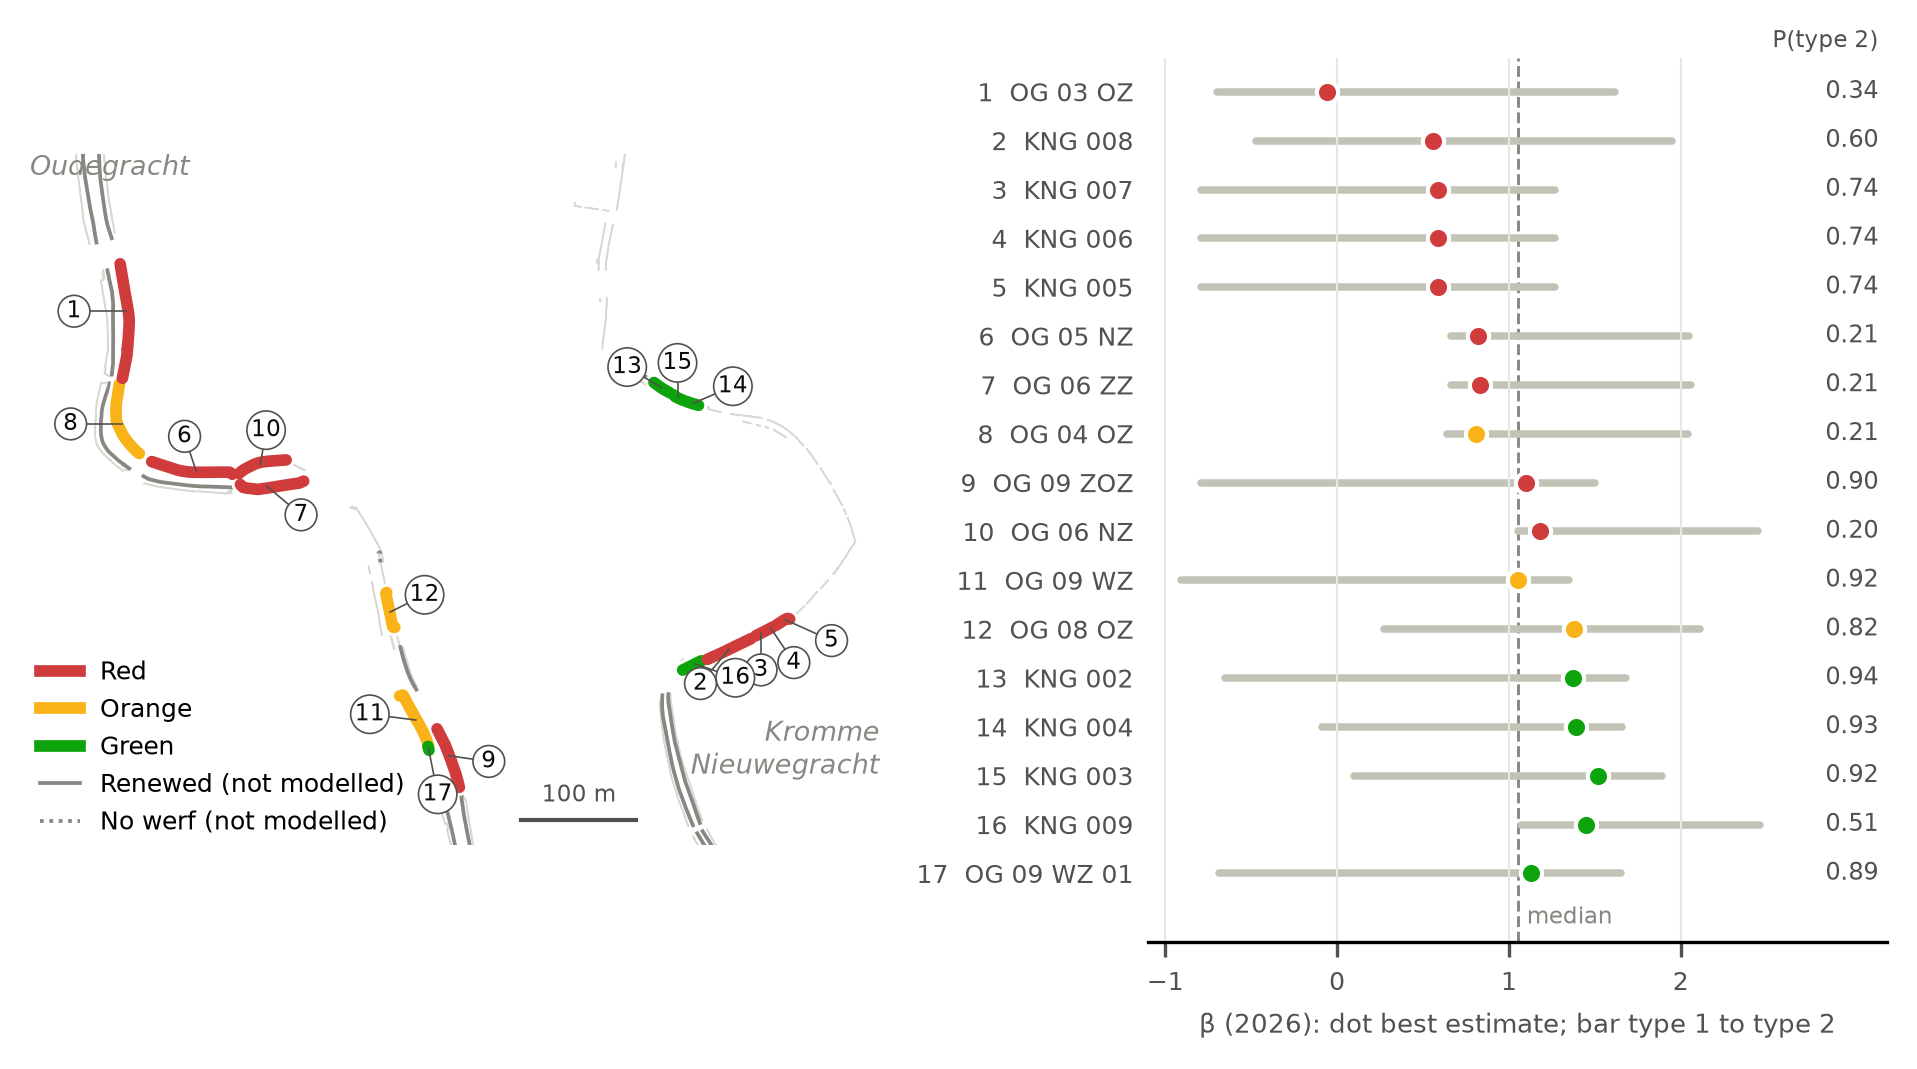
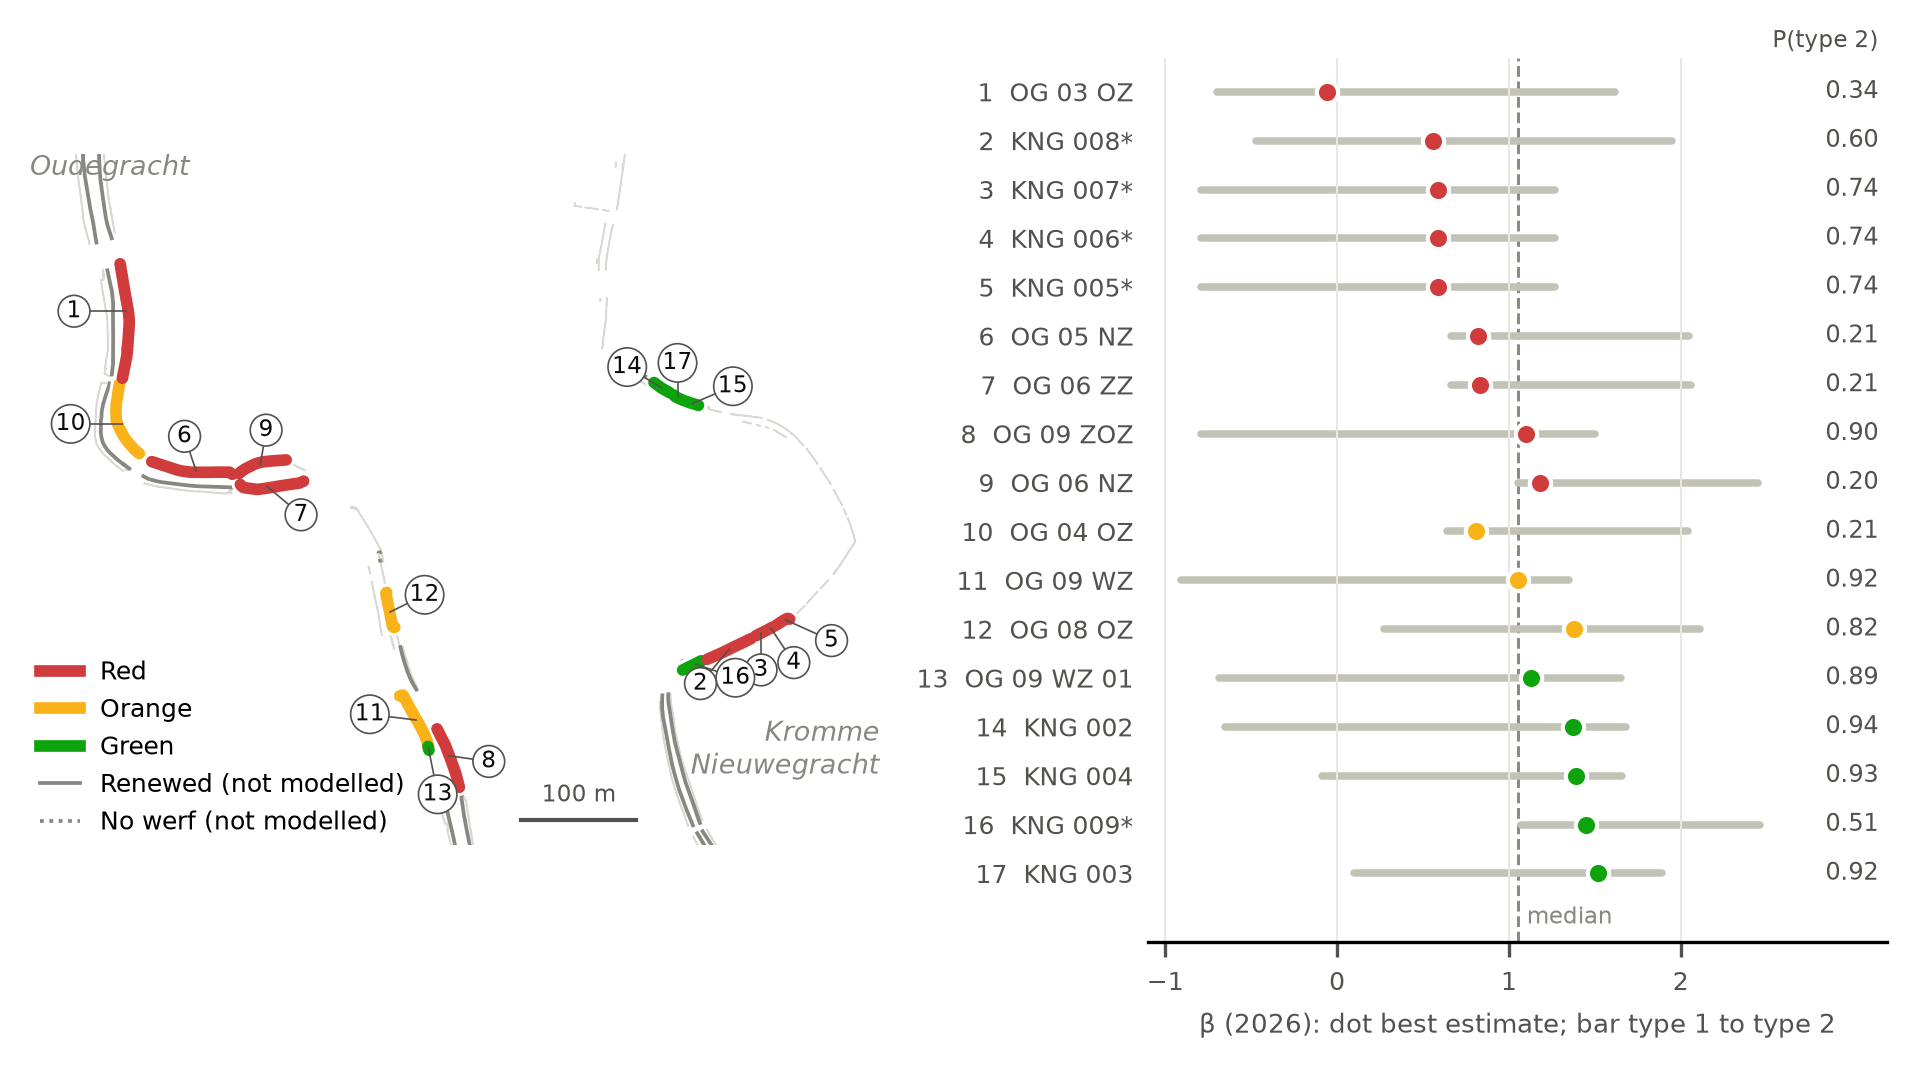
Scenario runs for the review fixes
fault_tree.py: model event x0.3, x3 and without time scaling;
plot_results_map.py: order by class then Pf, flag walls without a dive
note, class factor 1.25 and 2.0; SensitivityDependence.py: groundwater
up to the werf; regression_production_rate.py: E[N] without time scaling.

diff --git a/scripts/plot_results_map.py b/scripts/plot_results_map.py
@@ -10,7 +10,11 @@ median of the 17 modelled walls, not from the NEN 8700 levels:
 
 The consequence class comes from build_walmuur_consequence.py. Both are scored
 1 (low) to 3 (high); their sum gives the risk class, as in a 3 x 3 risk matrix:
-5 or 6 red, 4 orange, 2 or 3 green.
+5 or 6 red, 4 orange, 2 or 3 green. The list is ordered by risk class and,
+within a class, by Pf. A wall whose prior chance of type 2 is 0.5 (no dive note
+on the wall type) is flagged: its class rests on missing data rather than on
+evidence of a weak wall. The script also prints the classes for P_FACTOR 1.25
+and 2.0.
 
 Figure: left, the walmuren of the Wervengebied, the 17 modelled walls coloured
 by risk class; right, beta per wall (best estimate) with the range from type 1
@@ -49,7 +53,7 @@ def short(name):
             .replace(" (thv nr 018)", ""))
 
 
-def risk_table():
+def risk_table(p_factor=P_FACTOR):
     r = pd.read_csv(RESULTS)
     r = r[r["year"].eq(2026)]
     best = r[r["type"] == "unknown"].set_index("Nummer")
@@ -61,12 +65,16 @@ def risk_table():
                       "p_type2": best["p_type2"], "beta_type1": t1, "beta_type2": t2})
     d = d.join(c[["consequence_score", "consequence_class"]])
     med = d["pf"].median()
-    d["p_class"] = np.where(d["pf"] > P_FACTOR * med, "high",
-                            np.where(d["pf"] < med / P_FACTOR, "low", "medium"))
+    d["p_class"] = np.where(d["pf"] > p_factor * med, "high",
+                            np.where(d["pf"] < med / p_factor, "low", "medium"))
     score = d["p_class"].map(CLASS_SCORE) + d["consequence_class"].map(CLASS_SCORE)
     d["risk_class"] = np.where(score >= 5, "red", np.where(score == 4, "orange", "green"))
-    d["risk_rank"] = (d["pf"] * d["consequence_score"]).rank(ascending=False).astype(int)
-    return d.sort_values("risk_rank"), med
+    d["data_flag"] = best["p_type2_prior"].round(2).eq(0.5)
+    order = {"red": 0, "orange": 1, "green": 2}
+    d = d.assign(_c=d["risk_class"].map(order)).sort_values(["_c", "pf"], ascending=[True, False],
+                                                             kind="stable").drop(columns="_c")
+    d["risk_rank"] = np.arange(1, len(d) + 1)
+    return d, med
 
 
 def xy(coords):
@@ -81,6 +89,11 @@ def main() -> None:
     print(d[["Naam", "length_m", "beta", "p_class", "consequence_class", "risk_class", "risk_rank"]]
           .to_string())
     print(d.groupby("risk_class")["length_m"].agg(["count", "sum"]))
+    print("flagged (prior P(type 2) 0.5):", ", ".join(short(n) for n in d.loc[d["data_flag"], "Naam"]))
+    for f in (1.25, 2.0):
+        alt = risk_table(f)[0].groupby("risk_class")["length_m"].agg(["count", "sum"])
+        print(f"P_FACTOR {f}: " + ", ".join(f"{k} {int(v['count'])} ({v['sum']:.0f} m)"
+                                            for k, v in alt.iterrows()))
 
     features = json.loads((ROOT / "data" / "raw" / "Output areaal GU TU Delft 26-08.json")
                           .read_text())["features"]
@@ -104,15 +117,17 @@ def main() -> None:
                 ax.plot(*xy(c), color=MUTED, lw=0.9, ls=(0, (1, 1.5)) if reason.get(n) == "no werf" else "-",
                         zorder=2)
     # Each modelled wall carries its risk rank; offsets in metres, away from the canal.
-    offsets = {1: (-45, 0), 2: (-25, -30), 3: (0, -32), 4: (20, -30), 5: (40, -18), 6: (-10, 30),
-               7: (30, -25), 8: (-45, 0), 9: (35, -5), 10: (5, 30), 11: (-40, 5), 12: (30, 15),
-               13: (-30, 18), 14: (35, 15), 15: (0, 30), 16: (35, -12), 17: (8, -40)}
+    offsets = {"OG 03 OZ": (-45, 0), "KNG 008": (-25, -30), "KNG 007": (0, -32), "KNG 006": (20, -30),
+               "KNG 005": (40, -18), "OG 05 NZ": (-10, 30), "OG 06 ZZ": (30, -25), "OG 04 OZ": (-45, 0),
+               "OG 09 ZOZ": (35, -5), "OG 06 NZ": (5, 30), "OG 09 WZ": (-40, 5), "OG 08 OZ": (30, 15),
+               "KNG 002": (-30, 18), "KNG 004": (35, 15), "KNG 003": (0, 30), "KNG 009": (35, -12),
+               "OG 09 WZ 01": (8, -40)}
     deg_x = 1 / (111_320 * np.cos(np.radians(LAT0))) * np.cos(np.radians(LAT0))
     deg_y = 1 / 111_320
     for n, row in d.iterrows():
         x, y = xy(lines(geom[n])[0])
         x0, y0 = x.mean(), y.mean()
-        dx, dy = offsets[row["risk_rank"]]
+        dx, dy = offsets[short(row["Naam"])]
         tx, ty = x0 + dx * deg_x, y0 + dy * deg_y
         ax.plot([x0, tx], [y0, ty], color=INK_2, lw=0.4, zorder=5)
         ax.text(tx, ty, str(row["risk_rank"]), ha="center", va="center", fontsize=5.6, color=INK,
@@ -143,7 +158,8 @@ def main() -> None:
         bx.scatter(row["beta"], y, s=26, color=COLOURS[row["risk_class"]], edgecolor="white",
                    linewidth=1.0, zorder=3)
         bx.text(3.15, y, f"{row['p_type2']:.2f}", va="center", ha="right", fontsize=5.8, color=INK_2)
-    bx.set_yticks(yy, [f"{r}  {short(n)}" for r, n in zip(order["risk_rank"], order["Naam"])],
+    bx.set_yticks(yy, [f"{r}  {short(n)}{'*' if f else ''}" for r, n, f in
+                       zip(order["risk_rank"], order["Naam"], order["data_flag"])],
                   fontsize=6, color=INK_2)
     bx.set_xlim(-1.1, 3.2)
     bx.set_xticks([-1, 0, 1, 2])

diff --git a/scripts/fault_tree.py b/scripts/fault_tree.py
@@ -286,6 +286,35 @@ def main() -> None:
     print(f"NEN 8700 target Phi(-1.8) over 15 yr = {norm.cdf(-1.8):.3f}, scaled to {T:.1f} yr:"
           f" {scale(norm.cdf(-1.8), T):.4f}")
 
+    # Scenarios for the model event M. The model is not calibrated, so its absolute
+    # level is uncertain: M times 0.3 and 3. "No time scaling": the weakness is a
+    # present state and the critical load occurs within the exposure, so the chance
+    # of a limit state before renewal is the 15-year P_f itself (an upper bound).
+    print("\nScenarios for M (A0-A6, C_f = 1.5 M EUR):")
+    scen = {"x0.3": lambda m, pf: 0.3 * m, "x1": lambda m, pf: m,
+            "x3": lambda m, pf: min(1.0, 3 * m), "no scaling": lambda m, pf: pf}
+    for label, f in scen.items():
+        m_med = f(M, pf15)
+        costs = {}
+        for name, (once, yearly, change) in ALTERNATIVES.items():
+            change = dict(change)
+            fac = model_factor(checks, "beta_restrict_use") if change.pop("M", None) else None
+            if name.startswith("A4"):
+                cost, change["T_base"], d = C_RENEW * (np.exp(-RHO * 0.5) - np.exp(-RHO * T)), T, discount(1.0)[0]
+            else:
+                cost, d = once + yearly * annuity, df
+            mm = 1 - (1 - m_med)**fac if fac else m_med
+            pf = tree(events("base", T, mm, change))[0]
+            ce = cost + R * np.log(1 - pf + pf * np.exp(C_F * d / R))
+            costs[name] = (cost + pf * C_F * d, ce, pf)
+        n17 = sum(tree(events("base", t, f(m, p)))[0] for (t, m, p) in walls.values())
+        ev = min(costs, key=lambda k: costs[k][0])
+        ce_best = min(costs, key=lambda k: costs[k][1])
+        print(f"  M {label:10s}: M median {m_med:.3f}, A0 Pf {costs['A0 Current programme'][2]:.3f},"
+              f" N17 {n17:.2f}; E[C] A0 {costs['A0 Current programme'][0]:.0f},"
+              f" A4 {costs['A4 Renew now'][0]:.0f}, A6 {costs['A6 Restrict use'][0]:.0f};"
+              f" cheapest {ev.split()[0]}, lowest CE {ce_best.split()[0]}")
+
 
 if __name__ == "__main__":
     main()

diff --git a/scripts/StressCaclulation/SensitivityDependence.py b/scripts/StressCaclulation/SensitivityDependence.py
@@ -11,6 +11,8 @@ proven strength, 2026):
   more                    MOR and E correlated, rho = +0.8 (JCSS Probabilistic
                           Model Code, part 3.5)
   groundwater             groundwater under the werf Uniform(+0.6, +1.0) m NAP
+  groundwater_werf        groundwater under the werf Uniform(+0.5, +1.3) m NAP, capped at
+                          the werf level: covers the lower BRO levels (GLG +0.90 to +1.64)
                           instead of Uniform(+0.5, +0.9): from the canal level up
                           to about the werf
   soil_mixed              soil class uncertain: a mixture over the classes of the
@@ -46,6 +48,7 @@ YEAR = 2026
 RHO_K_GAMMA = -0.5
 RHO_MOR_E = 0.8
 GROUNDWATER_HIGH = (0.6, 1.0)   # [m NAP], uniform
+GROUNDWATER_WERF = (0.5, 1.3)   # [m NAP], uniform; water above the werf is cut off at the werf
 # ----------------------------------------------------------------------------
 FP.N_MC = N_MC
 TYPES = ("type 1", "type 2")
@@ -84,6 +87,7 @@ VARIANTS = {
     "kgamma": {"sample_soil": soil_correlated(RHO_K_GAMMA)},
     "more": {"sample_piles": piles_correlated(RHO_MOR_E)},
     "groundwater": {"GROUNDWATER_NAP": GROUNDWATER_HIGH},
+    "groundwater_werf": {"GROUNDWATER_NAP": GROUNDWATER_WERF},
 }
 
 
@@ -169,7 +173,7 @@ def main() -> None:
     d = pd.DataFrame(rows)
     d.to_csv(OUT, index=False)
     print()
-    for v in ["kgamma", "more", "groundwater", "soil_mixed"]:
+    for v in ["kgamma", "more", "groundwater", "groundwater_werf", "soil_mixed"]:
         for suffix in ["", "_type1", "_type2"]:
             col = f"beta_{v}{suffix}"
             if col in d:

diff --git a/scripts/regression_production_rate.py b/scripts/regression_production_rate.py
@@ -18,6 +18,10 @@ Report section 4.1. Uses the renewal year of every renewed walmuur
    2041 (at most 0.95). The expected number of walls that reach a limit state
    before renewal is the sum over the walls of 1 - exp(-sum of h over the years
    it waits). Two orders: lowest beta first, and a random order.
+   The constant hazard treats the 15-year Pf as spread evenly over time. If the
+   weakness is a present state and the critical load occurs within a few years,
+   the chance before renewal is the 15-year Pf itself, whatever the pace or
+   order: the upper bound sum(Pf 2026) is printed as well.
 
 5. Per wall, at the recent pace and lowest beta first: the mean number of years it
    waits (2026 up to and including its renewal year) and its chance to reach a
@@ -133,7 +137,8 @@ def main() -> None:
     cumhaz = cumulative_hazard(walls)
     n_years = HORIZON - START + 1
     by_beta = sorted(range(len(walls)), key=lambda i: walls[i][2026], reverse=True)
-    print(f"Modelled walls: {len(walls)}, {sum(w['length'] for w in walls):.0f} m")
+    print(f"Modelled walls: {len(walls)}, {sum(w['length'] for w in walls):.0f} m;"
+          f" without time scaling E[N] = sum of Pf 2026 = {sum(w[2026] for w in walls):.2f}")
     rng = np.random.default_rng(SEED)
     scenarios = {
         f"recent pace ({RECENT[0]}-{RECENT[-1]})": lambda: rng.choice(recent, n_years),
